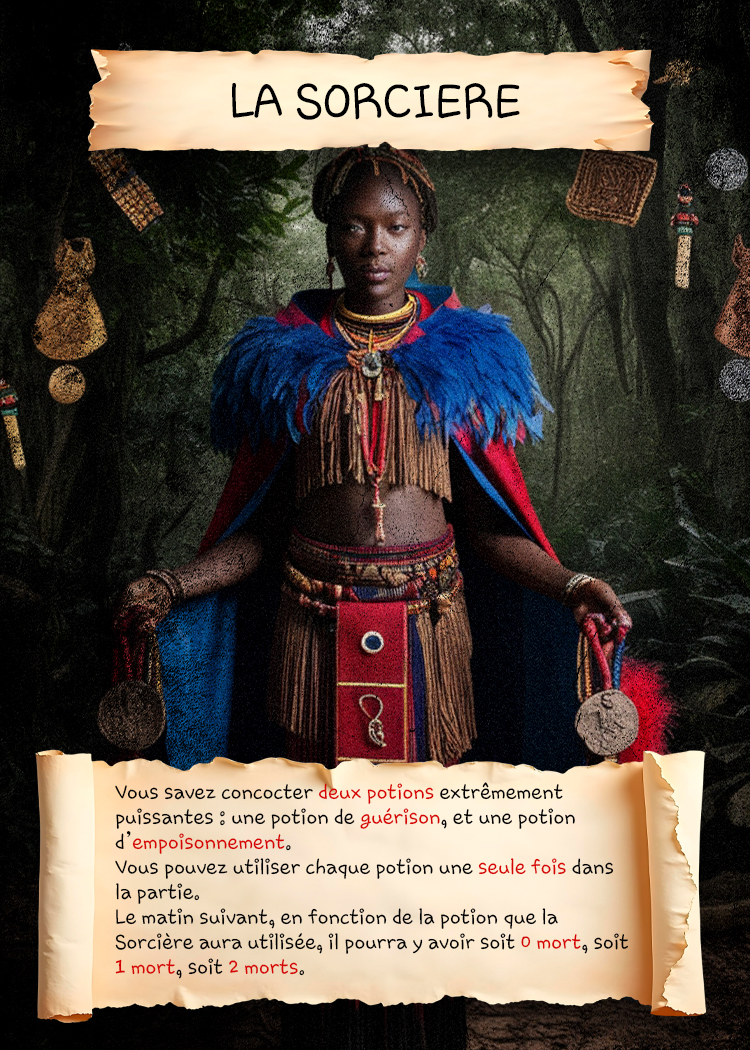
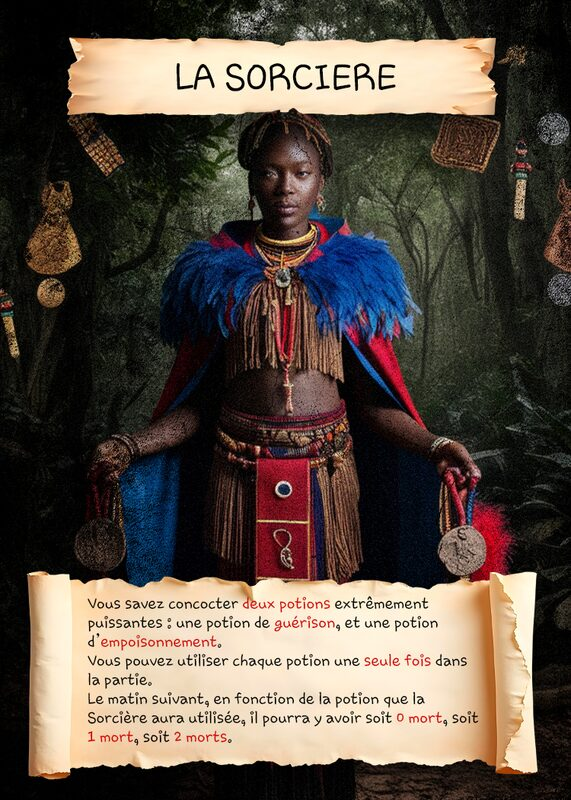
perf(ios): fluidité app mobile
- ui.tsx (Card, BottomActionBar), PhaseBanner.tsx, Dashboard.tsx: retire backdrop-blur (coûteux sur WKWebView iOS, surtout sur les barres fixed/sticky visibles en permanence et le Card générique utilisé ~45 fois) ; fonds rendus plus opaques pour compenser visuellement.
- useGame.ts: déduplique setView() (compare le JSON reçu avant de remplacer l'état) — évite un re-render complet de l'écran de jeu à chaque tick du filet de sécurité (2.5s) et à chaque event Realtime, même quand rien n'a changé.
- App.tsx: lazy() sur Account/Stats/Friends/Lobby/GameRoom (GameRoom entraîne le SDK vocal Daily.co) — allège le JS initial exécuté par la WKWebView au démarrage.
- public/roles/*.jpg: redimensionnées (750x1050 -> ~570x800) et recompressées, ~900Ko -> ~120-150Ko chacune, sans perte visible à la taille d'affichage réelle (~320px).

diff --git a/src/App.tsx b/src/App.tsx
@@ -10,12 +10,7 @@ import ForgotPassword from './pages/ForgotPassword'
 import ResetPassword from './pages/ResetPassword'
 import VerifyEmail from './pages/VerifyEmail'
 import Dashboard from './pages/Dashboard'
-import Account from './pages/Account'
-import Stats from './pages/Stats'
-import Friends from './pages/Friends'
-import Lobby from './pages/Lobby'
 import PendingApproval from './pages/PendingApproval'
-import GameRoom from './pages/GameRoom'
 import JoinByLink from './pages/JoinByLink'
 import NotFound from './pages/NotFound'
 import { FullScreenLoader } from './components/FullScreenLoader'
@@ -45,6 +40,20 @@ const LegalNotice = lazy(() => import('./pages/LegalNotice'))
 // Volontairement PAS derrière ProtectedRoute : accessible aussi aux
 // visiteurs non connectés depuis le lien du header de Landing.tsx.
 const Help = lazy(() => import('./pages/Help'))
+
+// Écrans secondaires (compte, stats, amis, salon d'attente) : sortis du
+// bundle principal, chargés à la demande — n'affectent pas le premier
+// écran vu après connexion (Dashboard, resté eager).
+const Account = lazy(() => import('./pages/Account'))
+const Stats = lazy(() => import('./pages/Stats'))
+const Friends = lazy(() => import('./pages/Friends'))
+const Lobby = lazy(() => import('./pages/Lobby'))
+// GameRoom entraîne avec lui tout le SDK vocal Daily.co/WebRTC (le plus
+// gros contributeur de poids du bundle après React/Supabase) — inutile
+// avant qu'une partie ne démarre réellement, donc chargé à ce moment-là
+// seulement plutôt que dans le JS initial que la WKWebView doit analyser/
+// exécuter dès l'ouverture de l'appli.
+const GameRoom = lazy(() => import('./pages/GameRoom'))
 
 function ProtectedRoute({ children }: { children: ReactNode }) {
   const { session, loading } = useAuth()
@@ -176,7 +185,9 @@ export default function App() {
         path="/compte"
         element={
           <ProtectedRoute>
-            <Account />
+            <Suspense fallback={<FullScreenLoader />}>
+              <Account />
+            </Suspense>
           </ProtectedRoute>
         }
       />
@@ -184,7 +195,9 @@ export default function App() {
         path="/stats"
         element={
           <ProtectedRoute>
-            <Stats />
+            <Suspense fallback={<FullScreenLoader />}>
+              <Stats />
+            </Suspense>
           </ProtectedRoute>
         }
       />
@@ -192,7 +205,9 @@ export default function App() {
         path="/amis"
         element={
           <ProtectedRoute>
-            <Friends />
+            <Suspense fallback={<FullScreenLoader />}>
+              <Friends />
+            </Suspense>
           </ProtectedRoute>
         }
       />
@@ -212,7 +227,9 @@ export default function App() {
         path="/partie/:code/lobby"
         element={
           <ProtectedRoute>
-            <Lobby />
+            <Suspense fallback={<FullScreenLoader />}>
+              <Lobby />
+            </Suspense>
           </ProtectedRoute>
         }
       />
@@ -220,7 +237,9 @@ export default function App() {
         path="/partie/:code"
         element={
           <ProtectedRoute>
-            <GameRoom />
+            <Suspense fallback={<FullScreenLoader />}>
+              <GameRoom />
+            </Suspense>
           </ProtectedRoute>
         }
       />

diff --git a/src/components/ui.tsx b/src/components/ui.tsx
@@ -94,8 +94,14 @@ export function Card({
       // Fond en dégradé (plutôt qu'un aplat) + ombre à trois couches
       // (liseré clair + contact + halo large, voir .shadow-card dans
       // index.css) : c'est ce combo qui donne du relief à la carte au lieu
-      // d'un simple rectangle bordé.
-      className={`rounded-2xl border border-night-600/70 bg-gradient-to-b from-night-700/60 to-night-900/70 p-6 shadow-card backdrop-blur-sm ${className}`}
+      // d'un simple rectangle bordé. Pas de `backdrop-blur` ici : ce
+      // composant est réutilisé ~45 fois dans l'appli (plusieurs cartes
+      // empilées à l'écran pendant une partie), et le flou d'arrière-plan
+      // force une couche de composition GPU par carte sur WKWebView iOS —
+      // un des plus gros coûts de fluidité identifiés. Le dégradé est un
+      // peu plus opaque (70%/85% au lieu de 60%/70%) pour garder le même
+      // rendu visuel sans le flou.
+      className={`rounded-2xl border border-night-600/70 bg-gradient-to-b from-night-700/70 to-night-900/85 p-6 shadow-card ${className}`}
       onClick={onClick}
     >
       {children}
@@ -111,7 +117,11 @@ export function Card({
  * de la page ne se retrouve pas caché derrière. */
 export function BottomActionBar({ children }: { children: ReactNode }) {
   return (
-    <div className="fixed inset-x-0 bottom-0 z-30 border-t border-night-700/60 bg-night-900/85 px-4 pt-3 shadow-[0_-8px_24px_-4px_rgba(0,0,0,0.5)] backdrop-blur-md sm:px-6" style={{ paddingBottom: 'max(env(safe-area-inset-bottom), 0.75rem)' }}>
+    // Barre fixe visible en permanence à l'écran : pas de `backdrop-blur`
+    // (coûteux à recalculer à chaque frame de scroll sur WKWebView iOS
+    // puisque le contenu derrière une barre `fixed` change en continu) —
+    // fond quasi opaque à la place, rendu visuel quasi identique.
+    <div className="fixed inset-x-0 bottom-0 z-30 border-t border-night-700/60 bg-night-900/95 px-4 pt-3 shadow-[0_-8px_24px_-4px_rgba(0,0,0,0.5)] sm:px-6" style={{ paddingBottom: 'max(env(safe-area-inset-bottom), 0.75rem)' }}>
       <div className="mx-auto max-w-3xl">{children}</div>
     </div>
   )

diff --git a/src/pages/Dashboard.tsx b/src/pages/Dashboard.tsx
@@ -357,7 +357,7 @@ export default function Dashboard() {
           <button
             type="button"
             onClick={() => setCreateOpen(true)}
-            className="flex flex-col items-center gap-2 rounded-2xl border border-night-600/70 bg-gradient-to-b from-night-700/60 to-night-900/70 p-6 shadow-card backdrop-blur-sm transition-colors hover:border-moon-400/50"
+            className="flex flex-col items-center gap-2 rounded-2xl border border-night-600/70 bg-gradient-to-b from-night-700/70 to-night-900/85 p-6 shadow-card transition-colors hover:border-moon-400/50"
           >
             <span className="text-3xl">🌕</span>
             <span className="font-display text-sm text-moon-200 sm:text-base">{t('dashboard.createGame')}</span>
@@ -365,7 +365,7 @@ export default function Dashboard() {
           <button
             type="button"
             onClick={() => setJoinStep('choose')}
-            className="flex flex-col items-center gap-2 rounded-2xl border border-night-600/70 bg-gradient-to-b from-night-700/60 to-night-900/70 p-6 shadow-card backdrop-blur-sm transition-colors hover:border-moon-400/50"
+            className="flex flex-col items-center gap-2 rounded-2xl border border-night-600/70 bg-gradient-to-b from-night-700/70 to-night-900/85 p-6 shadow-card transition-colors hover:border-moon-400/50"
           >
             <span className="text-3xl">🔑</span>
             <span className="font-display text-sm text-moon-200 sm:text-base">{t('dashboard.joinGame')}</span>

diff --git a/src/components/PhaseBanner.tsx b/src/components/PhaseBanner.tsx
@@ -121,11 +121,16 @@ export function PhaseBanner({
   }
 
   return (
+    // Bandeau `sticky` visible pendant 100% de la partie : `backdrop-blur`
+    // y était particulièrement coûteux (recalcul du flou à chaque frame de
+    // scroll puisque le contenu défilant en dessous change en continu) —
+    // retiré, dégradé rendu quasi opaque (97% au lieu de 90%) pour garder
+    // un rendu visuel très proche sans le coût GPU.
     <div
-      className={`sticky top-0 z-20 flex items-center justify-between gap-3 border-b bg-gradient-to-r px-4 pb-3 shadow-[0_2px_12px_-2px_rgba(0,0,0,0.4)] backdrop-blur-md sm:px-6 ${
+      className={`sticky top-0 z-20 flex items-center justify-between gap-3 border-b bg-gradient-to-r px-4 pb-3 shadow-[0_2px_12px_-2px_rgba(0,0,0,0.4)] sm:px-6 ${
         status === 'night'
-          ? 'border-night-600/60 from-night-950/90 via-night-900/90 to-night-950/90'
-          : 'border-blood-700/30 from-night-900/90 via-night-800/90 to-night-900/90'
+          ? 'border-night-600/60 from-night-950/97 via-night-900/97 to-night-950/97'
+          : 'border-blood-700/30 from-night-900/97 via-night-800/97 to-night-900/97'
       }`}
       // Comme la barre fixe en bas (voir ui.tsx) : garantit un espace
       // au moins équivalent à py-3 même quand env(safe-area-inset-top)

diff --git a/src/hooks/useGame.ts b/src/hooks/useGame.ts
@@ -16,6 +16,14 @@ export function useGame(gameId: string | null, userId: string | null = null) {
   // recalculé à chaque (re)connexion.
   const [onlineUserIds, setOnlineUserIds] = useState<Set<string>>(new Set())
   const busyRef = useRef(false)
+  // Dernière réponse brute reçue de l'RPC (sérialisée), pour ne déclencher
+  // un `setView` — et donc un re-render de tout l'écran de jeu (grille de
+  // joueurs, bannière, panneaux) — que si quelque chose a réellement changé.
+  // Sans ça, le filet de sécurité toutes les 2,5s (voir plus bas) ET chaque
+  // event Realtime (mouvement de n'importe lequel des joueurs) forçaient un
+  // re-render complet même quand rien de visible ne bougeait — un des
+  // principaux contributeurs au ressenti de lenteur pendant une partie.
+  const lastRawRef = useRef<string | null>(null)
 
   const refresh = useCallback(async () => {
     if (!gameId) return
@@ -28,7 +36,11 @@ export function useGame(gameId: string | null, userId: string | null = null) {
       return
     }
     setError(null)
-    setView(data as MyGameView)
+    const raw = JSON.stringify(data)
+    if (raw !== lastRawRef.current) {
+      lastRawRef.current = raw
+      setView(data as MyGameView)
+    }
     setLoading(false)
   }, [gameId])
 
